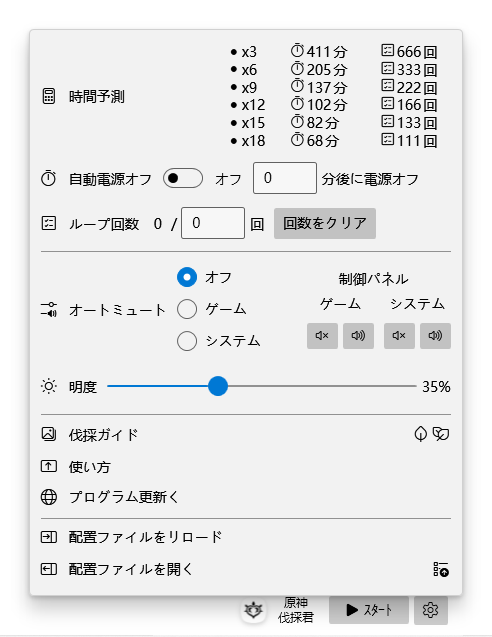
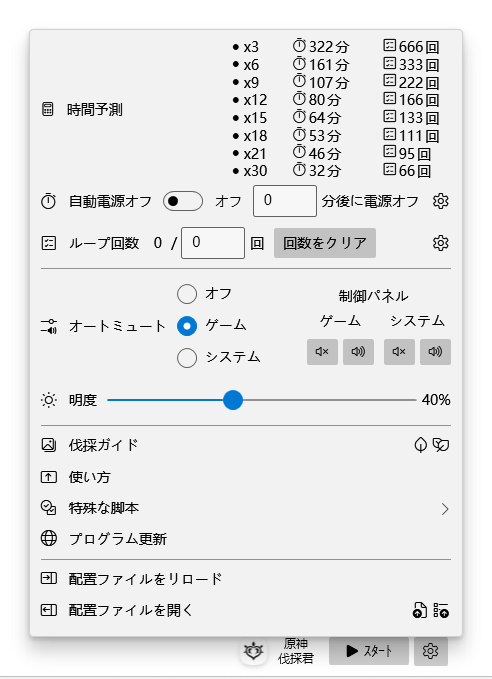
Updated to v1.6.1

Changed region(s): [[0.061, 0.0298, 0.9146, 0.9843], [0.061, 0.1193, 0.2744, 0.179]]

diff --git a/src/GenshinWoodmen/Resources/Languages/jp.xaml b/src/GenshinWoodmen/Resources/Languages/jp.xaml
@@ -7,7 +7,7 @@
     <s:String x:Key="ButtonStop">ｽﾄｯﾌﾟ</s:String>
     <s:String x:Key="ButtonOK">OK</s:String>
     <s:String x:Key="Usage">使い方</s:String>
-    <s:String x:Key="UsageMessage" xml:space="preserve">〔はじめに〕&#10;本プログラムはオープンソース且つネットワークを使わない、ゲームメモリに手出しすることは一切ないので安心。もし正常にキーボードなどのシミュレーションが出来ない場合は、本プログラムをアンチウィルスソフトにホワイトリストに追加し、もしくはアンチウィルスソフトを終了後にお使いください。&#10;&#10;〔ステップ〕&#10;1. 原神を起動；&#10;2. 手動的に伐採ポイントに移動、「伐採ガイド」にはお勧めポイントが描かれている；&#10;3. 「王樹の加護」Zキー便利アイテムを装備、このアイテムはスメールでの評判レベル３で獲得できる；&#10;4. 「スタート」をクリックして始まる、もう一度「ストップ」をクリックしたら停止する（デフォルトキーF11）。&#10;&#10;〔テクニック〕&#10;バーバラのソロパーティーを使うことと音声をミュートすること。スタックしてもバーバラの通常攻撃はキャラの位置を変えることはない、ミュートはよりスムーズなリロードが確保できる。&#10;&#10;〔その他の説明〕&#10;種類毎に木材の一日の獲得上限は2000アイテムまで、自動電源オフもしくはループ回数機能を使用することをお勧めする、またあなたのデバイス反応速度に応じて遅延パラメタを調整できる。</s:String>
+    <s:String x:Key="UsageMessage" xml:space="preserve">〔はじめに〕&#10;本プログラムはオープンソース且つネットワークを使わない、ゲームメモリに手出しすることは一切ないので安心。もし正常にキーボードなどのシミュレーションが出来ない場合は、本プログラムをアンチウィルスソフトにホワイトリストに追加し、もしくはアンチウィルスソフトを終了後にお使いください。&#10;&#10;〔ステップ〕&#10;1. 原神を起動；&#10;2. 手動的に伐採ポイントに移動、「伐採ガイド」にはお勧めポイントが描かれている；&#10;3. 「王樹の加護」Zキー便利アイテムを装備、このアイテムはスメールでの評判レベル３で獲得できる；&#10;4. 「スタート」をクリックして始まる、もう一度「ストップ」をクリックしたら停止する（デフォルトキーF11）。&#10;&#10;〔テクニック〕&#10;バーバラのソロパーティーを使うことと音声をミュートすること。スタックしてもバーバラの通常攻撃はキャラの位置を変えることはない。&#10;&#10;〔その他の説明〕&#10;種類毎に木材の一日の獲得上限は2000アイテムまで、自動電源オフもしくはループ回数機能を使用することをお勧めする、またあなたのデバイス反応速度に応じて遅延パラメタを調整できる。</s:String>
     <s:String x:Key="TopMost">最上位に表示</s:String>
     <s:String x:Key="Exit">終了</s:String>
     <s:String x:Key="WoodGuide">伐採ガイド</s:String>

diff --git a/src/GenshinWoodmen/Resources/Languages/en-us.xaml b/src/GenshinWoodmen/Resources/Languages/en-us.xaml
@@ -7,7 +7,7 @@
     <s:String x:Key="ButtonStop">Stop</s:String>
     <s:String x:Key="ButtonOK">OK</s:String>
     <s:String x:Key="Usage">Usage</s:String>
-    <s:String x:Key="UsageMessage" xml:space="preserve">[Preface]&#10;This program is open source and running without network. Not any sensitive operations such as controling game memory. If you can't auto simulate the key, please try to add this program to the anti-virus software white list, or turn off anti-virus software firstly.&#10;&#10;[Steps]&#10;1. Startup Genshin Impact;&#10;2. Goto the wood point, recommended from "Wood Guide".&#10;3. Ready your Key Z gadget, named "The Boon of the Elder Tree", obtained from Sumeru City Reputation Level 3;&#10;4. Click "Start", and you can click again to "Stop" (default shortcut key is F11);&#10;&#10;[Techniques]&#10;To use Barbara Solo party and mute. Barbara's normal attack will not move character's location, even if there is stuck. Mute can stabilize the loading speed.&#10;&#10;[Others]&#10;The max number of each kind of wood is 2000 per day. It's recommended to use the function of auto shutdown or auto stop when the specified number of times is reached. You can adjust the delay parameters according to the response speed of your own equipment.</s:String>
+    <s:String x:Key="UsageMessage" xml:space="preserve">[Preface]&#10;This program is open source and running without network. Not any sensitive operations such as controling game memory. If you can't auto simulate the key, please try to add this program to the anti-virus software white list, or turn off anti-virus software firstly.&#10;&#10;[Steps]&#10;1. Startup Genshin Impact;&#10;2. Goto the wood point, recommended from "Wood Guide".&#10;3. Ready your Key Z gadget, named "The Boon of the Elder Tree", obtained from Sumeru City Reputation Level 3;&#10;4. Click "Start", and you can click again to "Stop" (default shortcut key is F11);&#10;&#10;[Techniques]&#10;To use Barbara Solo party and mute. Barbara's normal attack will not move character's location, even if there is stuck.&#10;&#10;[Others]&#10;The max number of each kind of wood is 2000 per day. It's recommended to use the function of auto shutdown or auto stop when the specified number of times is reached. You can adjust the delay parameters according to the response speed of your own equipment.</s:String>
     <s:String x:Key="TopMost">Top Most</s:String>
     <s:String x:Key="Exit">Exit</s:String>
     <s:String x:Key="WoodGuide">Wood Guide</s:String>

diff --git a/src/GenshinWoodmen/Resources/Languages/zh-cn.xaml b/src/GenshinWoodmen/Resources/Languages/zh-cn.xaml
@@ -7,7 +7,7 @@
     <s:String x:Key="ButtonStop">停止</s:String>
     <s:String x:Key="ButtonOK">好的</s:String>
     <s:String x:Key="Usage">使用方法</s:String>
-    <s:String x:Key="UsageMessage" xml:space="preserve">【前言】&#10;本程序开源且不联网，没有任何操作游戏内存等敏感操作。如果无法正常自动模拟按键，请尝试将本程序添加至杀软白名单，或关闭杀软后使用。&#10;&#10;&#10;【操作步骤】&#10;1. 启动原神；&#10;2. 手动走到伐木点，可点击菜单栏[伐木指南]参考伐木点；&#10;3. 装备好「王树瑞佑」Z键小道具，这是须弥3级声望赠送道具；&#10;4. 点击启动开始挂机，再次点击可停止（默认快捷键F11）；&#10;&#10;&#10;【小技巧】&#10;可以使用芭芭拉单人队，并且关闭游戏声音。芭芭拉平A不会位移，就算出现卡顿也不会移动导致错位，关闭声音稳定加载速度。&#10;&#10;&#10;【其他说明】&#10;每日每种木材的获取上限为2000个，建议使用自动关机或达到指定次数自动停止功能。可根据自己设备响应速度自己调整延时参数。</s:String>
+    <s:String x:Key="UsageMessage" xml:space="preserve">【前言】&#10;本程序开源且不联网，没有任何操作游戏内存等敏感操作。如果无法正常自动模拟按键，请尝试将本程序添加至杀软白名单，或关闭杀软后使用。&#10;&#10;&#10;【操作步骤】&#10;1. 启动原神；&#10;2. 手动走到伐木点，可点击菜单栏[伐木指南]参考伐木点；&#10;3. 装备好「王树瑞佑」Z键小道具，这是须弥3级声望赠送道具；&#10;4. 点击启动开始挂机，再次点击可停止（默认快捷键F11）；&#10;&#10;&#10;【小技巧】&#10;可以使用芭芭拉单人队，并且关闭游戏声音。芭芭拉平A不会位移，就算出现卡顿也不会移动导致错位。&#10;&#10;&#10;【其他说明】&#10;每日每种木材的获取上限为2000个，建议使用自动关机或达到指定次数自动停止功能。可根据自己设备响应速度自己调整延时参数。</s:String>
     <s:String x:Key="TopMost">顶层显示</s:String>
     <s:String x:Key="Exit">退出</s:String>
     <s:String x:Key="WoodGuide">伐木指南</s:String>

diff --git a/src/GenshinWoodmen/Core/LaunchCtrl.cs b/src/GenshinWoodmen/Core/LaunchCtrl.cs
@@ -91,7 +91,7 @@ namespace GenshinWoodmen.Core
                     await JiggingProcessor.Delay(600);
                     UserSimulator.Input.Keyboard.KeyPress(VirtualKeyCode.ESCAPE);
                 }
-                await JiggingProcessor.Delay(850);
+                await JiggingProcessor.Delay(950);
                 RECT rect = NativeMethods.GetWindowRECT(hwnd);
                 NativeMethods.SetCursorPos(rect.Left + 20, rect.Bottom - 30);
                 await JiggingProcessor.Delay(100);

diff --git a/README.md b/README.md
@@ -1,30 +1,31 @@
-・[English](README.md) ・[中文](README.zh.md) ・[日本語](README.jp.md)
+・[English](README.en.md) ・[中文](README.md) ・[日本語](README.jp.md)
 
 [![GitHub downloads](https://img.shields.io/github/downloads/emako/genshin-woodmen/total)](https://github.com/emako/genshin-woodmen/releases)
 [![GitHub downloads](https://img.shields.io/github/downloads/emako/genshin-woodmen/latest/total)](https://github.com/emako/genshin-woodmen/releases)
 
-# Genshin Woodmen
+# 原神伐木姬
 
-This is an automatic tool to obtain woods in Genshin Impact using gadget named "The Boon of the Elder Tree", got from Sumeru City Reputation Level 3.
+> GenshinWoodmen
 
-## Screen Shot
+这是一项原神自动伐木的工具，利用须弥的便利道具「王树瑞佑」稳定获取木材，这是须弥3级声望赠送道具。
 
-![](assets/image1.en.png)
+## 程序界面
 
-![](assets/image2.en.png)
+![](assets/image1.zh.png)
 
-## Usage
+![](assets/image2.zh.png)
 
-![](assets/image3.en.png)
+## 使用方法
 
-## Recommended Points
+![](assets/image3.zh.png)
+
+## 推荐伐木点
 
 ![usage](src/GenshinWoodmen/Resources/usage.jpg)
 
 
 
-## FAQs
+## 常见问题
 
-1. When the setup can't be installed. Please ensure that your system has installed the Microsoft Store. The setup depends on the store architecture (MSIX).
-2. Runtime environment is net6.0-windows10.0.18362.0.
-
+1. 若安装包无法安装，请确保你的系统已安装应用商店，安装包依赖商店架构 (MSIX)。
+2. 运行环境是net6.0-windows10.0.18362.0。

diff --git a/README.en.md b/README.en.md
@@ -1,0 +1,30 @@
+・[English](README.en.md) ・[中文](README.md) ・[日本語](README.jp.md)
+
+[![GitHub downloads](https://img.shields.io/github/downloads/emako/genshin-woodmen/total)](https://github.com/emako/genshin-woodmen/releases)
+[![GitHub downloads](https://img.shields.io/github/downloads/emako/genshin-woodmen/latest/total)](https://github.com/emako/genshin-woodmen/releases)
+
+# Genshin Woodmen
+
+This is an automatic tool to obtain woods in Genshin Impact using gadget named "The Boon of the Elder Tree", got from Sumeru City Reputation Level 3.
+
+## Screen Shot
+
+![](assets/image1.en.png)
+
+![](assets/image2.en.png)
+
+## Usage
+
+![](assets/image3.en.png)
+
+## Recommended Points
+
+![usage](src/GenshinWoodmen/Resources/usage.jpg)
+
+
+
+## FAQs
+
+1. When the setup can't be installed. Please ensure that your system has installed the Microsoft Store. The setup depends on the store architecture (MSIX).
+2. Runtime environment is net6.0-windows10.0.18362.0.
+

diff --git a/README.jp.md b/README.jp.md
@@ -1,4 +1,4 @@
-・[English](README.md) ・[中文](README.zh.md) ・[日本語](README.jp.md)
+・[English](README.en.md) ・[中文](README.md) ・[日本語](README.jp.md)
 
 [![GitHub downloads](https://img.shields.io/github/downloads/emako/genshin-woodmen/total)](https://github.com/emako/genshin-woodmen/releases)
 [![GitHub downloads](https://img.shields.io/github/downloads/emako/genshin-woodmen/latest/total)](https://github.com/emako/genshin-woodmen/releases)
